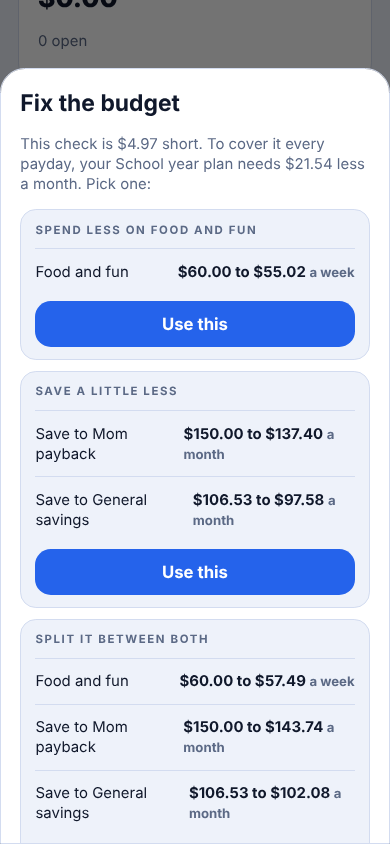
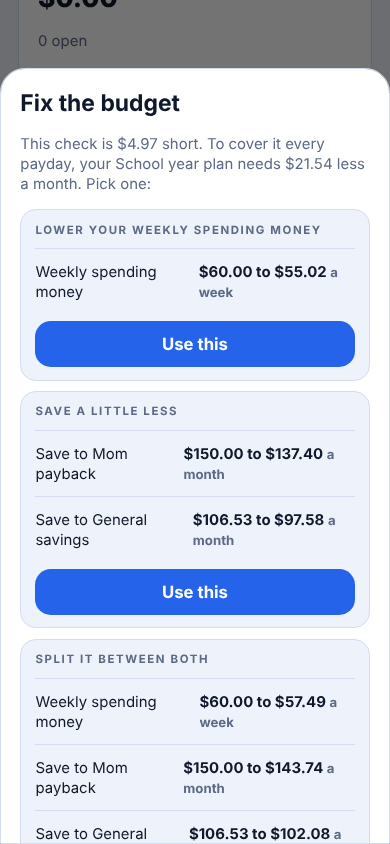
Use one weekly spending limit for all non bill spending
Claude-Session: https://claude.ai/code/session_01GRBJSRuy6G3EwDDX9F7TbG

Changed region(s): [[0.0923, 0.3081, 0.9231, 1.0], [0.0923, 0.2464, 0.8308, 0.2773], [0.9231, 0.4313, 0.9538, 0.4621]]

diff --git a/app.js b/app.js
@@ -33,7 +33,7 @@
 
   // ---------- default data ----------
   function defaultState() {
-    const amounts = { gas: 150, insurance: 200, flexpay: 53.66, dad: 136.82, phone: 54, gym: 25, haircut: 42, subs: 41.99, food: 260, amazon: 80, other: 0 };
+    const amounts = { gas: 150, insurance: 200, flexpay: 53.66, dad: 136.82, phone: 54, gym: 25, haircut: 42, subs: 41.99, food: 0, amazon: 0, other: 0 };
     return {
       v: 1, persona: 'mahi', mode: 'school',
       cats: [
@@ -41,12 +41,12 @@
         { id: 'flexpay', name: 'Flex pay', kind: 'fixed' }, { id: 'dad', name: "Dad's payment", kind: 'fixed' },
         { id: 'phone', name: 'Phone', kind: 'fixed' }, { id: 'gym', name: 'Gym', kind: 'fixed' },
         { id: 'haircut', name: 'Haircut', kind: 'fixed' }, { id: 'subs', name: 'Subscriptions', kind: 'fixed' },
-        { id: 'food', name: 'Food and fun', kind: 'flex' }, { id: 'amazon', name: 'Amazon essentials', kind: 'flex' },
+        { id: 'food', name: 'Food', kind: 'flex' }, { id: 'amazon', name: 'Amazon essentials', kind: 'flex' },
         { id: 'other', name: 'Other', kind: 'flex' }
       ],
       budget: {
-        school: { amounts: Object.assign({}, amounts), foodWeek: 65, income: 1300, savings: { mom: 150, gen: 106.53 } },
-        summer: { amounts: Object.assign({}, amounts), foodWeek: 65, pay: 0, freq: 'biweekly', savings: { mom: 300, trip: 200, gen: 300 } }
+        school: { amounts: Object.assign({}, amounts), foodWeek: 60, income: 1300, savings: { mom: 150, gen: 106.53 } },
+        summer: { amounts: Object.assign({}, amounts), foodWeek: 60, pay: 0, freq: 'biweekly', savings: { mom: 300, trip: 200, gen: 300 } }
       },
       accounts: [{ id: 'chk', name: 'Checking', last4: '', type: 'checking', balance: 0 }],
       expenses: [], ious: [],
@@ -122,16 +122,20 @@
     const f = { weekly: 52 / 12, biweekly: 26 / 12, semimonthly: 2, monthly: 1 }[b.freq] || 1;
     return C.round2(b.pay * f);
   }
-  const plannedSpend = () => sum(S.cats.filter((c) => c.id !== 'other'), (c) => budgetOf().amounts[c.id] || 0);
+  const plannedSpend = () => C.round2(sum(S.cats.filter((c) => c.kind === 'fixed'), (c) => budgetOf().amounts[c.id] || 0) + poolMonth());
   const plannedSavings = () => sum(Object.values(budgetOf().savings));
   function monthSpend(mk) {
     const m = {};
     S.expenses.forEach((e) => { if (counted(e) && C.monthKey(e.date) === mk) m[e.cat] = (m[e.cat] || 0) + e.amount; });
     return m;
   }
+  // One weekly "spending money" limit covers every flexible category (food, shopping, other).
+  // Fixed categories are bills with their own monthly amounts.
+  const isFlex = (cat) => { const c = S.cats.find((x) => x.id === cat); return !c || c.kind === 'flex'; };
+  const poolMonth = (m) => C.round2((budgetOf(m).foodWeek || 0) * 52 / 12);
   function weekSpend(ws, cat) {
     const we = C.addDays(ws, 6);
-    return sum(S.expenses.filter((e) => counted(e) && e.cat === (cat || 'food') && e.date >= ws && e.date <= we), (e) => e.amount);
+    return sum(S.expenses.filter((e) => counted(e) && (cat ? e.cat === cat : isFlex(e.cat)) && e.date >= ws && e.date <= we), (e) => e.amount);
   }
   function daysToSunday() { const d = new Date().getDay(); return (7 - d) % 7 || 7; }
   function goalTotal(k) {
@@ -195,7 +199,7 @@
   const FREQS = [['weekly', 'Every week'], ['biweekly', 'Every two weeks'], ['semimonthly', 'Twice a month'], ['monthly', 'Once a month']];
   const payFreq = () => (S.mode === 'summer' ? S.budget.summer.freq : S.payFreq) || 'biweekly';
   const perCheck = () => (S.mode === 'summer' ? S.budget.summer.pay || 0 : C.round2(incomeOf('school') / PER_MONTH[payFreq()]));
-  // Weekly food and fun limit, plus anything left over from earlier weeks when rollover is on.
+  // Weekly spending money limit, plus anything left over from earlier weeks when rollover is on.
   function weekLimit(ws) {
     const base = budgetOf().foodWeek || 0;
     if (!S.rollover || !S.rollSince || !base) return base;
@@ -211,7 +215,7 @@
     const g = [], nd = S.bills.filter((b) => !b.day).length;
     if (!incomeOf(S.mode)) g.push(['Add your income', 'budgetEdit']);
     if (nd) g.push([nd + ' bill' + (nd === 1 ? ' has' : 's have') + ' no due day', 'bills']);
-    if (!budgetOf().foodWeek) g.push(['Set a weekly food and fun limit', 'budgetEdit']);
+    if (!budgetOf().foodWeek) g.push(['Set your weekly spending money', 'budgetEdit']);
     if (!S.accounts.some((a) => a.balance)) g.push(['Enter your account balances', 'cards']);
     return g;
   }
@@ -271,7 +275,7 @@
     }
 
     const ws = C.weekStart(t), fw = weekLimit(ws), sp = weekSpend(ws), left = fw - sp;
-    h += card('Left to spend this week', `<p class="big ${left < 0 ? 'r' : 'g'}">${fm(left)} ${left < 0 ? 'over' : 'left'}</p><p class="muted">${fm(sp)} of ${fm(fw)} on food and fun. ${daysToSunday()} days until Sunday.${fw > b.foodWeek ? ' Includes ' + fm(fw - b.foodWeek) + ' rolled over.' : ''}</p>${bar(fw ? sp / fw : 0, C.status(fw ? sp / fw : 0))}`);
+    h += card('Left to spend this week', `<p class="big ${left < 0 ? 'r' : 'g'}">${fm(left)} ${left < 0 ? 'over' : 'left'}</p><p class="muted">${fm(sp)} of ${fm(fw)} spending money used. ${daysToSunday()} days until Sunday.${fw > b.foodWeek ? ' Includes ' + fm(fw - b.foodWeek) + ' rolled over.' : ''}</p>${bar(fw ? sp / fw : 0, C.status(fw ? sp / fw : 0))}`);
 
     const ms = monthSpend(mk), spent = sum(Object.values(ms)), plan = plannedSpend();
     const over = S.cats.filter((c) => (b.amounts[c.id] || 0) > 0 && (ms[c.id] || 0) > b.amounts[c.id]).length;
@@ -290,7 +294,7 @@
     const sd = subsDue();
     if (sd.length && !S.dismissed['subs' + mk]) h += card('Subscription check', `<p class="med">${sd.length} subscription${sd.length === 1 ? '' : 's'} to review</p><p class="muted">${esc(sd.slice(0, 3).map((b) => b.name).join(', '))}${sd.length > 3 ? ' and more' : ''}. Still using ${sd.length === 1 ? 'it' : 'them'}?</p><div class="btns"><button class="btn" data-act="dismissSubs">Later</button><button class="btn primary" data-act="openMore" data-v="bills">Review</button></div>`);
     const st = takeoutStreak();
-    h += card('Takeout streak', `<p class="big">${st.days} day${st.days === 1 ? '' : 's'}</p><p class="muted">${st.has ? 'Since your last food and fun purchase.' : 'No food and fun logged yet.'}</p>`);
+    h += card('Takeout streak', `<p class="big">${st.days} day${st.days === 1 ? '' : 's'}</p><p class="muted">${st.has ? 'Since your last food purchase.' : 'No food logged yet.'}</p>`);
 
     h += `<button class="mb14 btn primary" data-act="paycheck">I got paid</button><div class="btns"><button class="btn" data-act="openMore" data-v="afford">Can I afford this?</button><button class="btn" data-act="openMore" data-v="recap">Reports</button></div>`;
     return h;
@@ -308,17 +312,21 @@
     const sp = weekSpend(ws), fw = weekLimit(ws), left = fw - sp, pct = fw ? sp / fw : 0;
     let h = `<div class="mb14 row"><button class="btn small" data-act="wnav" data-d="-1">Previous</button><div class="tc f1 muted">${C.shortDate(ws)} to ${C.shortDate(we)}</div><button class="btn small" data-act="wnav" data-d="1">Next</button></div>`;
     const sub = ui.wOff === 0 ? `${daysToSunday()} days until Sunday` : (left < 0 ? 'over' : 'left');
-    h += card('Food and fun', ring(pct, C.status(pct), fm(left), left < 0 ? 'over budget' : 'left') +
+    h += card('Spending money', ring(pct, C.status(pct), fm(left), left < 0 ? 'over budget' : 'left') +
       `<p class="tc muted">${fm(sp)} spent of ${fm(fw)}. ${sub}.</p>` + (fw > b.foodWeek ? `<p class="tc muted small">Includes ${fm(fw - b.foodWeek)} rolled over from earlier weeks.</p>` : '') +
       (ui.wOff === 0 && left > 0 ? `<p class="tc muted small">About ${fm(left / daysToSunday())} a day to stay on track.</p>` : ''));
-    const list = S.expenses.filter((e) => counted(e) && e.cat === 'food' && e.date >= ws && e.date <= we).sort((a, c) => (a.date < c.date ? 1 : -1));
-    h += card('Food and fun this week', list.length ? list.map(expRow).join('') : '<p class="muted">Nothing logged yet.</p>');
+    const list = S.expenses.filter((e) => counted(e) && isFlex(e.cat) && e.date >= ws && e.date <= we).sort((a, c) => (a.date < c.date ? 1 : -1));
+    h += card('Spent this week', list.length ? list.map(expRow).join('') : '<p class="muted">Nothing logged yet.</p>');
     return h;
   }
   function MonthView() {
     const mk = ui.mk || C.monthKey(C.today()), b = budgetOf(), ms = monthSpend(mk);
     let h = monthNav(mk, 'mnav');
-    const rows = S.cats.filter((c) => (b.amounts[c.id] || 0) > 0 || (ms[c.id] || 0) > 0).map((c) => {
+    const flexSp = sum(S.cats.filter((c) => c.kind === 'flex'), (c) => ms[c.id] || 0), pm = poolMonth();
+    const parts = S.cats.filter((c) => c.kind === 'flex' && ms[c.id]).map((c) => esc(c.name) + ' ' + fm(ms[c.id])).join(', ');
+    const pp = pm ? flexSp / pm : (flexSp ? 2 : 0), pc = C.status(pp);
+    const poolRow = `<div class="item"><div class="row"><span class="t">Spending money</span><span class="${pc}">${fm(flexSp)} of ${fm(pm)}</span></div>${bar(pp, pc)}<div class="muted small">${flexSp > pm ? fm(flexSp - pm) + ' over' : fm(pm - flexSp) + ' left'}${parts ? '. ' + parts : ''}</div></div>`;
+    const rows = poolRow + S.cats.filter((c) => c.kind === 'fixed' && ((b.amounts[c.id] || 0) > 0 || (ms[c.id] || 0) > 0)).map((c) => {
       const amt = b.amounts[c.id] || 0, sp = ms[c.id] || 0, pct = amt ? sp / amt : (sp ? 2 : 0), cls = C.status(pct);
       return `<div class="item"><div class="row"><span class="t">${esc(c.name)}</span><span class="${cls}">${fm(sp)} of ${fm(amt)}</span></div>${bar(pct, cls)}<div class="muted small">${sp > amt ? fm(sp - amt) + ' over' : fm(amt - sp) + ' left'}</div></div>`;
     }).join('');
@@ -481,8 +489,9 @@
     h += `<div class="seg"><button class="${m === 'school' ? 'on' : ''}" data-act="mode" data-m="school">School year</button><button class="${m === 'summer' ? 'on' : ''}" data-act="mode" data-m="summer">Summer</button></div>`;
     if (m === 'school') h += card('Income', `<label class="f">Monthly paycheck income</label><input type="text" inputmode="decimal" data-path="budget.school.income" data-t="n" data-re="1" value="${b.income}"><label class="f">How often you get paid</label><select data-path="payFreq" data-t="s" data-re="1">${FREQS.map((o) => `<option value="${o[0]}" ${S.payFreq === o[0] ? 'selected' : ''}>${o[1]}</option>`).join('')}</select><p class="muted small">Bonus money like tips is logged separately and never counted as income.</p>`);
     else h += card(mahi() ? 'Toyota co op pay' : 'Summer job pay', `<label class="f">Pay per check</label><input type="text" inputmode="decimal" data-path="budget.summer.pay" data-t="n" data-re="1" value="${b.pay || ''}"><label class="f">How often</label><select data-path="budget.summer.freq" data-t="s" data-re="1">${[['weekly', 'Weekly'], ['biweekly', 'Every two weeks'], ['semimonthly', 'Twice a month'], ['monthly', 'Monthly']].map((o) => `<option value="${o[0]}" ${b.freq === o[0] ? 'selected' : ''}>${o[1]}</option>`).join('')}</select><p class="muted">About ${fm(incomeOf('summer'))} a month.</p>`);
-    h += card('Monthly spending budget', S.cats.filter((c) => c.id !== 'other').map((c) => `<label class="f">${esc(c.name)}</label><input type="text" inputmode="decimal" data-path="budget.${m}.amounts.${c.id}" data-t="n" data-re="1" value="${b.amounts[c.id]}">`).join('') + `<label class="f">Food and fun per week</label><input type="text" inputmode="decimal" data-path="budget.${m}.foodWeek" data-t="n" data-re="1" value="${b.foodWeek}">`);
-    h += card('Rollover', `<label class="check"><input type="checkbox" data-act="toggleRoll" ${S.rollover ? 'checked' : ''}>Roll unspent food and fun into next week</label><p class="muted small">Up to one extra week's worth can carry over. Going over does not carry, so a bad week never eats into the next one.</p>`);
+    h += card('Weekly spending money', `<input type="text" inputmode="decimal" data-path="budget.${m}.foodWeek" data-t="n" data-re="1" value="${b.foodWeek}"><p class="muted small">One limit for food, Amazon, and anything else that is not a bill. About ${fm(poolMonth(m))} a month.</p>`);
+    h += card('Monthly bills and fixed costs', S.cats.filter((c) => c.kind === 'fixed').map((c) => `<label class="f">${esc(c.name)}</label><input type="text" inputmode="decimal" data-path="budget.${m}.amounts.${c.id}" data-t="n" data-re="1" value="${b.amounts[c.id] || 0}">`).join(''));
+    h += card('Rollover', `<label class="check"><input type="checkbox" data-act="toggleRoll" ${S.rollover ? 'checked' : ''}>Roll unspent spending money into next week</label><p class="muted small">Up to one extra week's worth can carry over. Going over does not carry, so a bad week never eats into the next one.</p>`);
     const labels = { mom: mahi() ? 'Paying back Mom' : 'Payback goal', gen: 'General savings', trip: 'Trip fund' };
     h += card('Monthly savings targets', Object.keys(b.savings).map((k) => `<label class="f">${labels[k] || k}</label><input type="text" inputmode="decimal" data-path="budget.${m}.savings.${k}" data-t="n" data-re="1" value="${b.savings[k]}">`).join(''));
     const inc = incomeOf(m), sp = plannedSpend(), sv = plannedSavings(), left = C.round2(inc - sp - sv);
@@ -498,7 +507,15 @@
     const t = C.today(), mk = C.monthKey(t), b = budgetOf(), ms = monthSpend(mk), ws = C.weekStart(t);
     const line = (label, left, after) => `<div class="item"><div class="t">${label}</div><div class="row"><span class="muted">Now</span><span>${fm(left)} ${left < 0 ? 'over' : 'left'}</span></div><div class="row"><span class="muted">After</span><b class="${after < 0 ? 'r' : after < price ? 'y' : 'g'}">${fm(after)} ${after < 0 ? 'over' : 'left'}</b></div></div>`;
     let out = '';
-    if (cat === 'food') { const l = weekLimit(ws) - weekSpend(ws); out += line('This week, food and fun', l, l - price); }
+    if (isFlex(cat)) {
+      const l = weekLimit(ws) - weekSpend(ws); out += line('This week, spending money', l, l - price);
+      const flexM = sum(S.cats.filter((c) => c.kind === 'flex'), (c) => ms[c.id] || 0), pl = poolMonth() - flexM;
+      out += line('This month, spending money', pl, pl - price);
+      const tl0 = plannedSpend() - sum(Object.values(ms));
+      out += line('This month, whole budget', tl0, tl0 - price);
+      const bad = l - price < 0 || pl - price < 0;
+      return card('Impact', (bad ? '<p class="med r">That puts you over your spending money.</p>' : (l - price < price ? '<p class="med y">It fits, but this week gets tight.</p>' : '<p class="med g">It fits comfortably.</p>')) + out);
+    }
     const cl = (b.amounts[cat] || 0) - (ms[cat] || 0);
     out += line('This month, ' + esc(catName(cat)), cl, cl - price);
     const tl = plannedSpend() - sum(Object.values(ms));
@@ -523,8 +540,8 @@
 
     h += trend;
     if (isW) {
-      const fw = weekLimit(r.from), fs = r.byCat.food || 0;
-      if (fw) h += card('Food and fun', `<p class="big ${fs > fw ? 'r' : 'g'}">${fm(fs)} <span class="muted med">of ${fm(fw)}</span></p>${bar(fs / fw, C.status(fs / fw))}<p class="muted">${fs > fw ? fm(fs - fw) + ' over the weekly limit.' : fm(fw - fs) + ' under the weekly limit.'}</p>`);
+      const fw = weekLimit(r.from), fs = C.round2(sum(Object.keys(r.byCat).filter(isFlex), (k) => r.byCat[k]));
+      if (fw) h += card('Spending money', `<p class="big ${fs > fw ? 'r' : 'g'}">${fm(fs)} <span class="muted med">of ${fm(fw)}</span></p>${bar(fs / fw, C.status(fs / fw))}<p class="muted">${fs > fw ? fm(fs - fw) + ' over the weekly limit.' : fm(fw - fs) + ' under the weekly limit.'}</p>`);
     }
 
     const cats = Object.keys(r.byCat).sort((a, c) => r.byCat[c] - r.byCat[a]);
@@ -606,7 +623,7 @@
       pts.push({ n, v: sum(S.expenses.filter((e) => counted(e) && (!cat || e.cat === cat) && e.date >= a && e.date <= b), (e) => e.amount) });
     }
     const bo = budgetOf();
-    const plan = cat ? (isW ? (cat === 'food' ? bo.foodWeek : 0) : bo.amounts[cat] || 0) : (isW ? 0 : plannedSpend());
+    const plan = cat ? (isFlex(cat) ? 0 : isW ? 0 : bo.amounts[cat] || 0) : (isW ? 0 : plannedSpend());
     const W = 320, H = 160, top = 18, bot = 22, mx = Math.max(plan, ...pts.map((p) => p.v), 1), bw = W / pts.length;
     const y = (v) => top + (H - top - bot) * (1 - v / mx);
     let svg = `<svg class="trend" viewBox="0 0 ${W} ${H}" role="img" aria-label="Spending trend">`;
@@ -644,7 +661,7 @@
   function payPlan(amount, date) {
     const f = PER_MONTH[payFreq()] || 1, share = 1 / f, b = budgetOf();
     const fixed = C.round2(sum(S.cats.filter((c) => c.kind === 'fixed'), (c) => b.amounts[c.id] || 0) * share);
-    const flex = C.round2(sum(S.cats.filter((c) => c.kind === 'flex' && c.id !== 'food'), (c) => b.amounts[c.id] || 0) * share);
+    const flex = 0;
     const weeks = Math.round((52 / 12 / f) * 10) / 10, food = C.round2((b.foodWeek || 0) * weeks);
     const goals = Object.keys(b.savings).map((k) => ({ k, v: C.round2((b.savings[k] || 0) * share) })).filter((g) => g.v > 0);
     const saving = sum(goals, (g) => g.v), left = C.round2(amount - fixed - flex - food - saving);
@@ -660,7 +677,7 @@
   function payPlanHTML(amount, date) {
     if (!(amount > 0)) return '<p class="muted small">Enter the amount to see the plan.</p>';
     const p = payPlan(amount, date), row = (n, v, cls) => `<div class="row item"><span>${n}</span><b class="${cls || ''}">${fm(v)}</b></div>`;
-    let h = '<div class="card inset">' + row('Bills and fixed costs', p.fixed) + (p.flex ? row('Shopping and other', p.flex) : '') + row(`Food and fun, ${p.weeks} week${p.weeks === 1 ? '' : 's'}`, p.food) +
+    let h = '<div class="card inset">' + row('Bills and fixed costs', p.fixed) + (p.flex ? row('Shopping and other', p.flex) : '') + row(`Spending money, ${p.weeks} week${p.weeks === 1 ? '' : 's'}`, p.food) +
       p.goals.map((g) => row('Save: ' + esc(S.goals[g.k] ? S.goals[g.k].name : g.k), g.v, 'g')).join('') +
       row(p.left < 0 ? 'Short by' : 'Left over, free to use', p.left, p.left < 0 ? 'r' : 'g') + '</div>';
     if (p.left < 0) h += `<p class="small r">This check is ${fm(-p.left)} short of your plan. You can skip some savings this once, or fix the budget so future checks cover it.</p><button type="button" class="mt8 btn" data-act="fixBudget">Fix the budget for future checks</button>`;
@@ -673,19 +690,19 @@
     const up = (x) => Math.ceil(x * 100 - 1e-6) / 100;
     const cut = up(short * f);                       // monthly amount to free up
     const food = (b.foodWeek || 0) * wpm;
-    const flexCats = S.cats.filter((c) => c.kind === 'flex' && c.id !== 'food' && (b.amounts[c.id] || 0) > 0);
+    const flexCats = [];
     const flex = sum(flexCats, (c) => b.amounts[c.id]);
     const savKeys = Object.keys(b.savings).filter((k) => (b.savings[k] || 0) > 0);
     const sav = sum(savKeys, (k) => b.savings[k]);
     const opts = [];
     const plan = (foodCut, flexCut, savCut) => {
       const ch = [];
-      if (foodCut > 0) { const nw = Math.max(0, C.round2(b.foodWeek - up(foodCut / wpm))); ch.push({ kind: 'food', label: 'Food and fun', from: b.foodWeek, to: nw, unit: 'a week' }); }
+      if (foodCut > 0) { const nw = Math.max(0, C.round2(b.foodWeek - up(foodCut / wpm))); ch.push({ kind: 'food', label: 'Weekly spending money', from: b.foodWeek, to: nw, unit: 'a week' }); }
       if (flexCut > 0) flexCats.forEach((c) => { const v = b.amounts[c.id]; ch.push({ kind: 'cat', id: c.id, label: catName(c.id), from: v, to: Math.max(0, C.round2(v - up(flexCut * v / flex))), unit: 'a month' }); });
       if (savCut > 0) savKeys.forEach((k) => { const v = b.savings[k]; ch.push({ kind: 'sav', id: k, label: 'Save to ' + (S.goals[k] ? S.goals[k].name : k), from: v, to: Math.max(0, C.round2(v - up(savCut * v / sav))), unit: 'a month' }); });
       return ch;
     };
-    if (food >= cut) opts.push({ t: 'Spend less on food and fun', ch: plan(cut, 0, 0) });
+    if (food >= cut) opts.push({ t: 'Lower your weekly spending money', ch: plan(cut, 0, 0) });
     if (flex >= cut) opts.push({ t: 'Trim shopping and other', ch: plan(0, cut, 0) });
     if (sav >= cut) opts.push({ t: 'Save a little less', ch: plan(0, 0, cut) });
     const tot = food + flex + sav;
@@ -857,9 +874,9 @@
         `<label class="f">I pay my cards off from</label><select name="src"><option value="checking" ${payType() === 'checking' ? 'selected' : ''}>Checking</option><option value="savings" ${payType() === 'savings' ? 'selected' : ''}>Savings</option></select>` +
         `<label class="mt check"><input type="checkbox" name="auto" ${S.autoBal ? 'checked' : ''}>Update balances when I log purchases</label><p class="muted small">Recommended. A purchase on a card adds to what it owes, so the app can warn you before ${payType() === 'savings' ? 'savings' : 'checking'} runs short.</p>`;
     } else if (step === 'budget') {
-      body = `<p class="muted">${me ? 'Your numbers are filled in. Fix anything that changed.' : 'Monthly amounts. Leave 0 for anything you do not spend on.'}</p><label class="f">Food and fun per week</label>${mIn('fw', b.foodWeek)}<label class="check"><input type="checkbox" name="roll" ${S.rollover ? 'checked' : ''}>Roll unspent food and fun into next week</label>` +
-        S.cats.filter((c) => c.id !== 'other' && c.id !== 'food').map((c) => `<label class="f">${esc(c.name)}, per month</label>${mIn('c_' + c.id, b.amounts[c.id])}`).join('') +
-        `<label class="f">Food and fun, per month</label>${mIn('c_food', b.amounts.food)}<p class="muted small">The weekly limit above is what the app tracks day to day.</p>`;
+      body = `<p class="muted">${me ? 'Your numbers are filled in. Fix anything that changed.' : 'Leave 0 for anything you do not pay.'}</p><label class="f">Weekly spending money</label>${mIn('fw', b.foodWeek)}<p class="muted small">One limit for food, shopping, and anything else that is not a bill.</p><label class="check"><input type="checkbox" name="roll" ${S.rollover ? 'checked' : ''}>Roll unspent money into next week</label><p class="label mt">Monthly bills and fixed costs</p>` +
+        S.cats.filter((c) => c.kind === 'fixed').map((c) => `<label class="f">${esc(c.name)}</label>${mIn('c_' + c.id, b.amounts[c.id])}`).join('');
+
     } else if (step === 'bills') {
       body = `<p class="muted">Due days let the app warn you, plan each paycheck, and put bills on your calendar.</p>` + S.bills.map((x) => `<div class="card inset"><label class="f">Name</label><input type="text" name="bn_${x.id}" value="${esc(x.name)}" autocomplete="off"><div class="two"><div><label class="f">Amount</label>${mIn('ba_' + x.id, x.amount)}</div><div><label class="f">Due day</label><input type="number" min="1" max="31" name="bd_${x.id}" value="${x.day || ''}" placeholder="1 to 31"></div></div><label class="f">Category</label><select name="bc_${x.id}">${S.cats.map((c) => `<option value="${c.id}" ${x.cat === c.id ? 'selected' : ''}>${esc(c.name)}</option>`).join('')}</select><button type="button" class="mt8 btn small danger" data-act="wizRmBill" data-id="${x.id}">Remove bill</button></div>`).join('') +
         `<button type="button" class="btn" data-act="wizAddBill">Add a bill</button><p class="muted small mt8">Put streaming, apps, and memberships under Subscriptions so the app can check on them. If a category budget is lower than its bills, it gets raised to cover them.</p>`;
@@ -1194,14 +1211,14 @@
       ui.fixOpts = o.opts;
       openSheet(`<h2>Fix the budget</h2><p class="muted">This check is ${fm(-p.left)} short. To cover it every payday, your ${S.mode === 'school' ? 'School year' : 'Summer'} plan needs ${fm(o.cut)} less a month. Pick one:</p>` +
         (o.opts.length ? o.opts.map((x, i) => card(x.t, x.ch.map((c) => `<div class="row item"><span>${esc(c.label)}</span><b>${fm(c.from)} to ${fm(c.to)} <span class="muted small">${c.unit}</span></b></div>`).join('') + `<button class="mt8 btn primary" data-act="fixApply" data-i="${i}">Use this</button>`, 'inset')).join('')
-          : '<p class="r">There is not enough in food and fun, shopping, and savings to cover it. Lower a fixed bill in Budget and income, or check your take home amount.</p>') +
+          : '<p class="r">There is not enough in spending money and savings to cover it. Lower a fixed bill in Budget and income, or check your take home amount.</p>') +
         `<button class="mt btn" data-act="fixKeep">Leave the budget, this check was just low</button>`);
     },
     fixApply(d) {
       const x = ui.fixOpts && ui.fixOpts[+d.i]; if (!x) return;
       const b = budgetOf(), wpm = 52 / 12;
       x.ch.forEach((c) => {
-        if (c.kind === 'food') { b.foodWeek = c.to; b.amounts.food = C.round2(c.to * wpm); }
+        if (c.kind === 'food') b.foodWeek = c.to;
         else if (c.kind === 'cat') b.amounts[c.id] = c.to;
         else b.savings[c.id] = c.to;
       });
@@ -1425,6 +1442,7 @@
     if (S.autoBal && !S.balSince) { S.balSince = C.today(); save(); }
     applyBudgetNov2026();
     removeDadPayment();
+    poolSpending();
     render();
     if (!S.setupDone && !S.expenses.length) { if (S.persona === 'blank') setupForm(); else setupStart(); }
   }
@@ -1446,6 +1464,14 @@
     if (!S.expenses.some((e) => e.cat === 'dad')) S.cats = S.cats.filter((c) => c.id !== 'dad');
     S.noDadPay = true; save();
     setTimeout(() => toast("Dad's payment removed: budget is $806.65 a month"), 700);
+  }
+  // One time: food, shopping, and other share one weekly limit instead of separate monthly amounts.
+  function poolSpending() {
+    if (S.poolSpend) return;
+    ['school', 'summer'].forEach((m) => { S.cats.forEach((c) => { if (c.kind === 'flex') S.budget[m].amounts[c.id] = 0; }); if (S.persona !== 'blank') S.budget[m].foodWeek = 60; });
+    if (S.persona !== 'blank') { const f = S.cats.find((c) => c.id === 'food'); if (f && f.name === 'Food and fun') f.name = 'Food'; }
+    S.poolSpend = true; save();
+    setTimeout(() => toast('$60 a week now covers all your spending'), 800);
   }
   async function lock() {
     await flush(); V.lock(); S = null; closeSheet(); showLock();

diff --git a/sw.js b/sw.js
@@ -1,4 +1,4 @@
-const CACHE = 'money-v14';
+const CACHE = 'money-v15';
 const ASSETS = ['./', 'index.html', 'styles.css', 'core.js', 'vault.js', 'app.js', 'manifest.webmanifest', 'icon-180.png', 'icon-192.png', 'icon-512.png'];
 
 self.addEventListener('install', (e) => {
